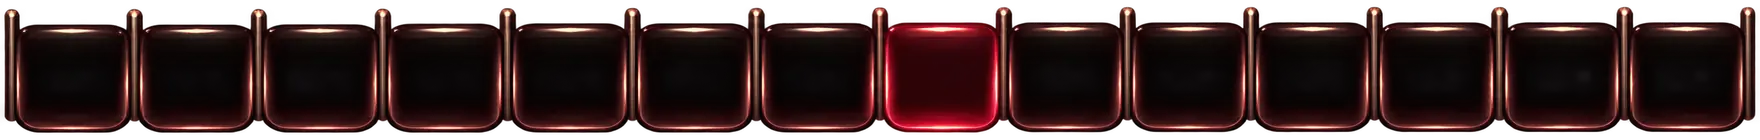
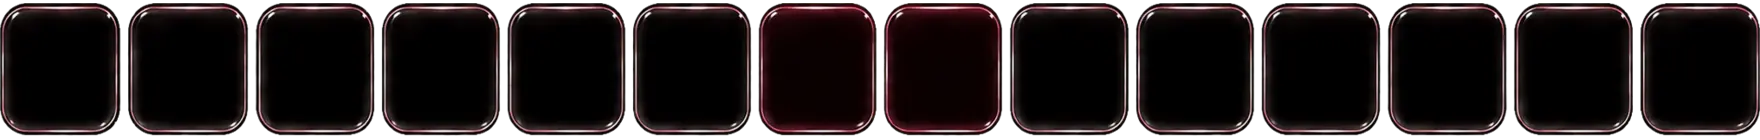
Restore original Plinko multiplier bins

diff --git a/src/miniapp/boot-loader-script.ts b/src/miniapp/boot-loader-script.ts
@@ -20,7 +20,7 @@ export const STARTUP_RUNTIME_SCRIPT = `
       '/assets/Plinko.PNG?v=1',
       '/assets/plinko-glass/ball.webp',
       '/assets/plinko-glass/peg.webp',
-      '/assets/plinko-glass/houses.webp?v=2',
+      '/assets/plinko-glass/houses.webp',
       '/assets/plinko-glass/control-panel-new.webp',
       '/assets/plinko-glass/point-amount-card.webp?v=2',
       '/assets/plinko-glass/half-button.webp',

diff --git a/src/miniapp/plinko/scripts/main.ts b/src/miniapp/plinko/scripts/main.ts
@@ -8,7 +8,7 @@ export const PLINKO_SCRIPT = `
   var credit = readPoints();
   var iconUrl = '/assets/plinko-glass/ball.webp?v=1';
   var pegVisualUrl = '/assets/plinko-glass/peg.webp?v=1';
-  var houseStripUrl = '/assets/plinko-glass/houses.webp?v=2';
+  var houseStripUrl = '/assets/plinko-glass/houses.webp?v=1';
   var control = null;
   var lastStamp = '';
   var lastLoadAt = 0;
